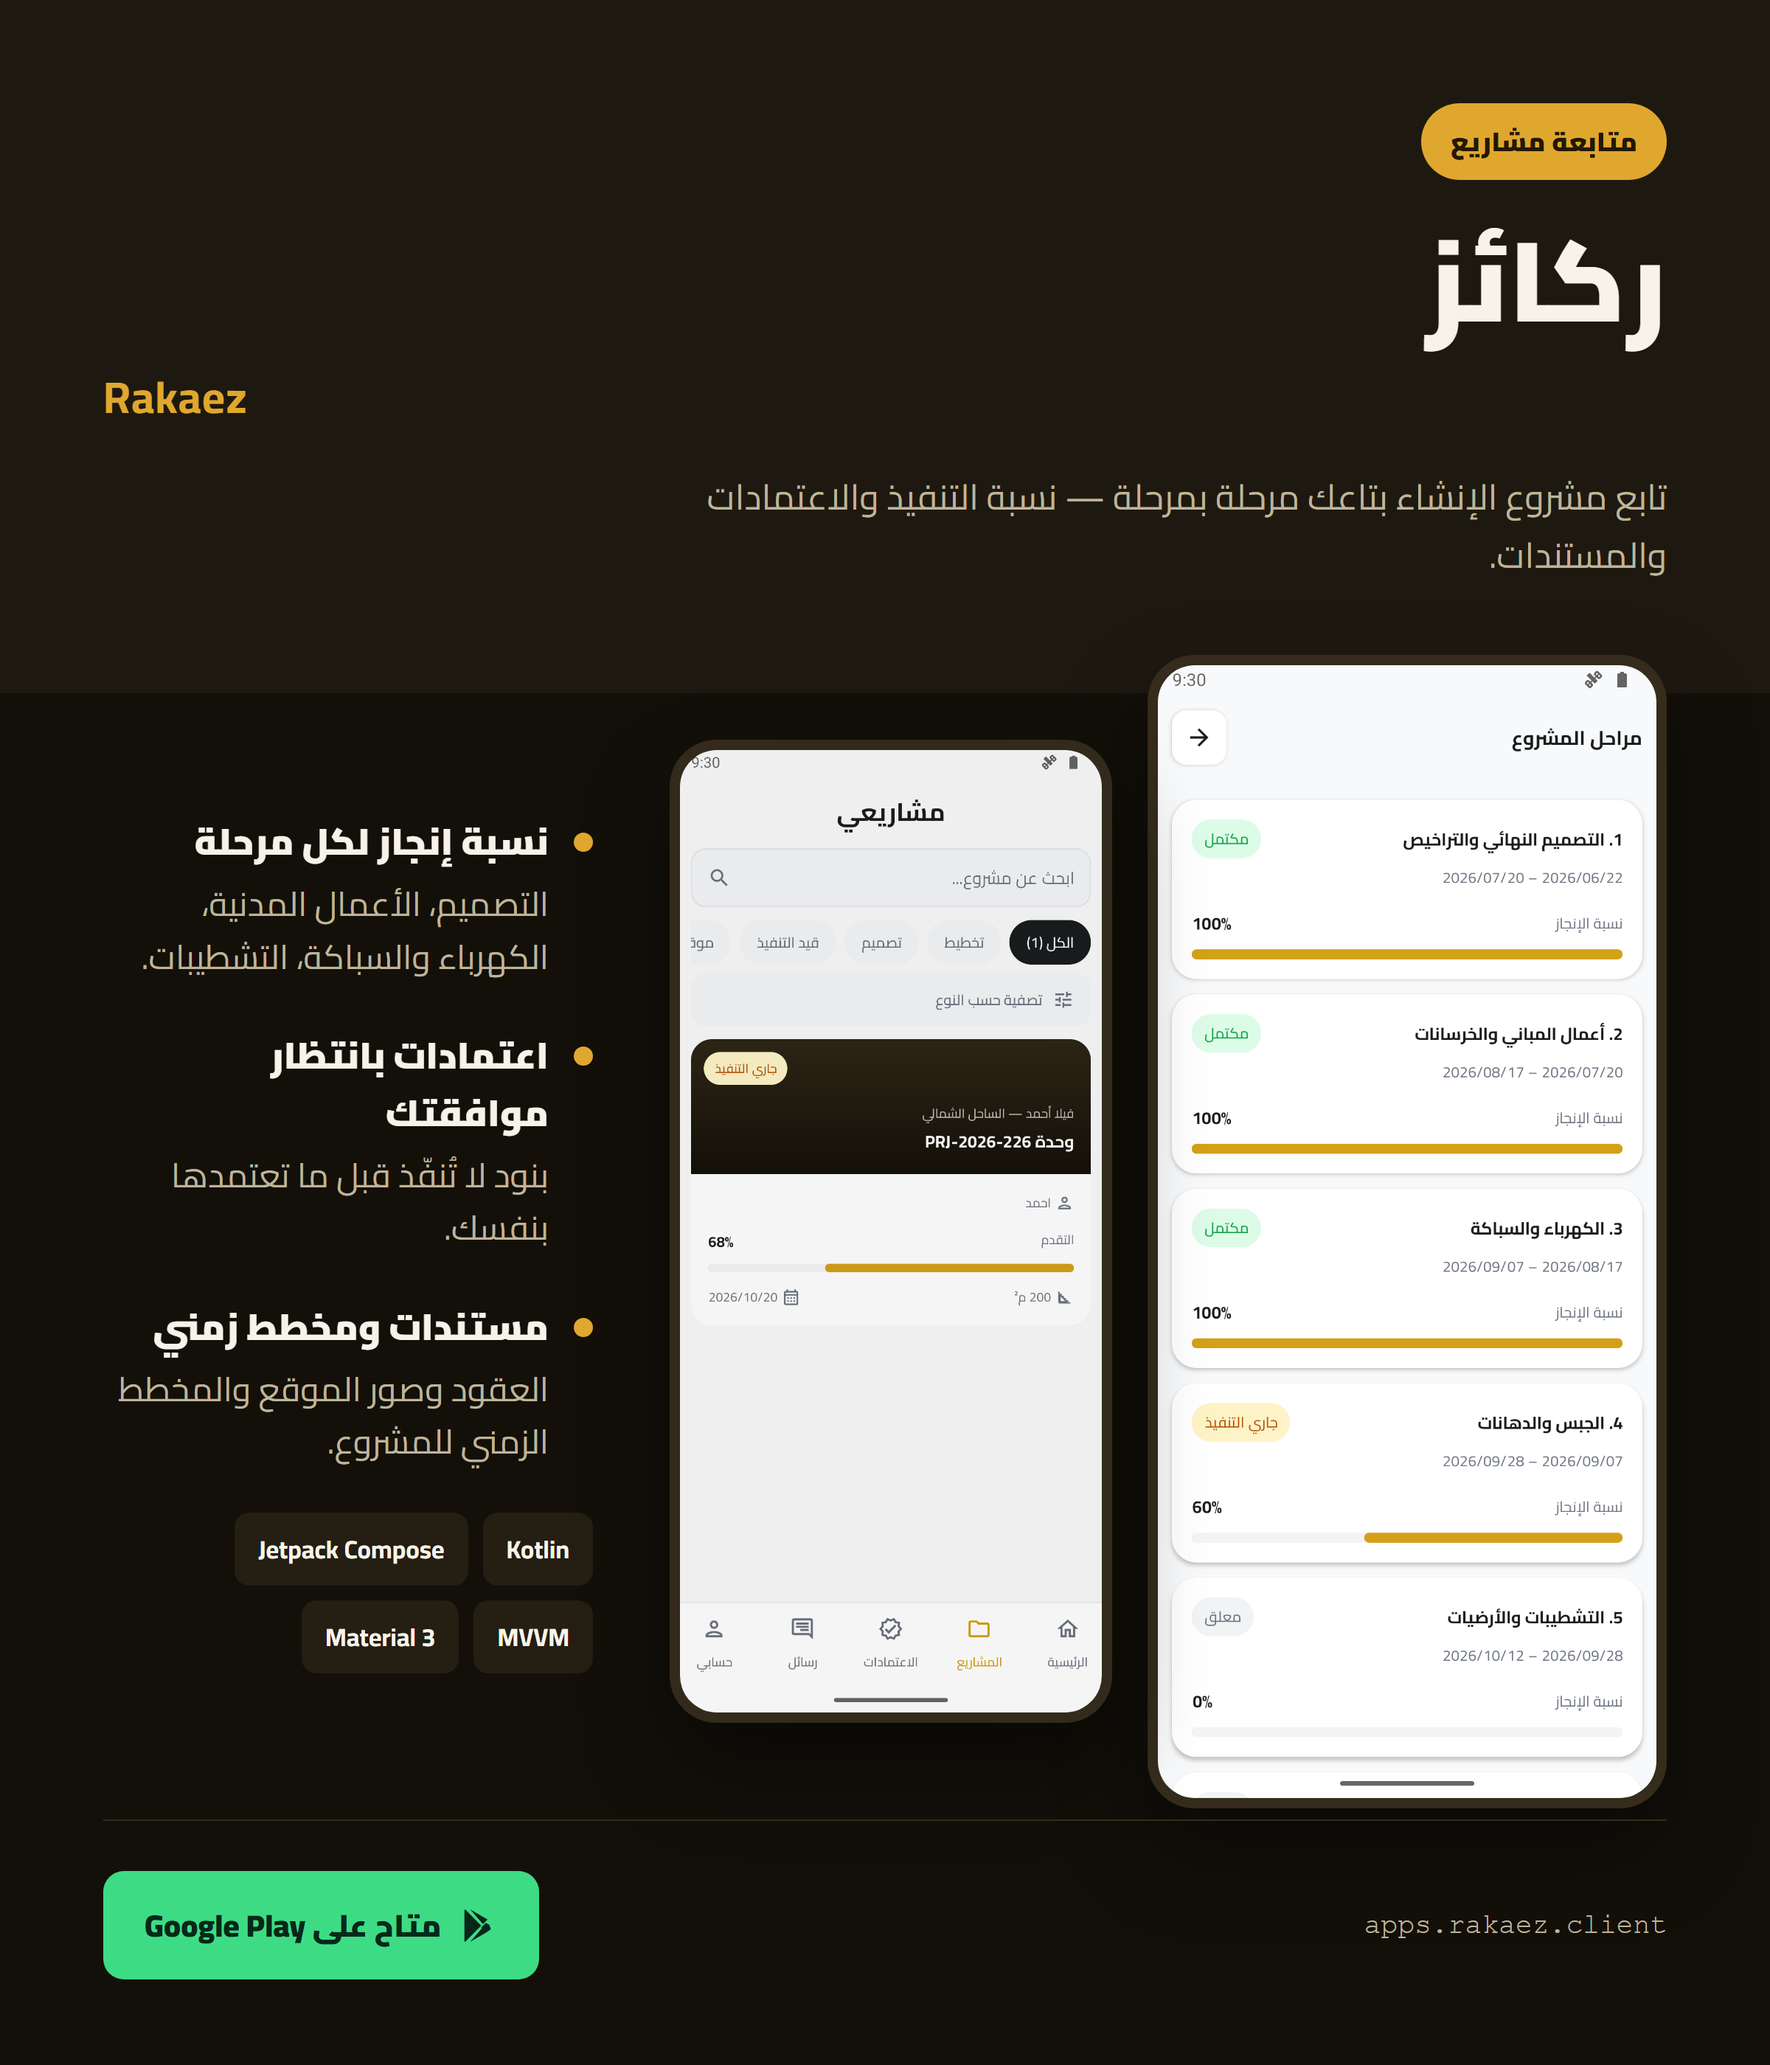
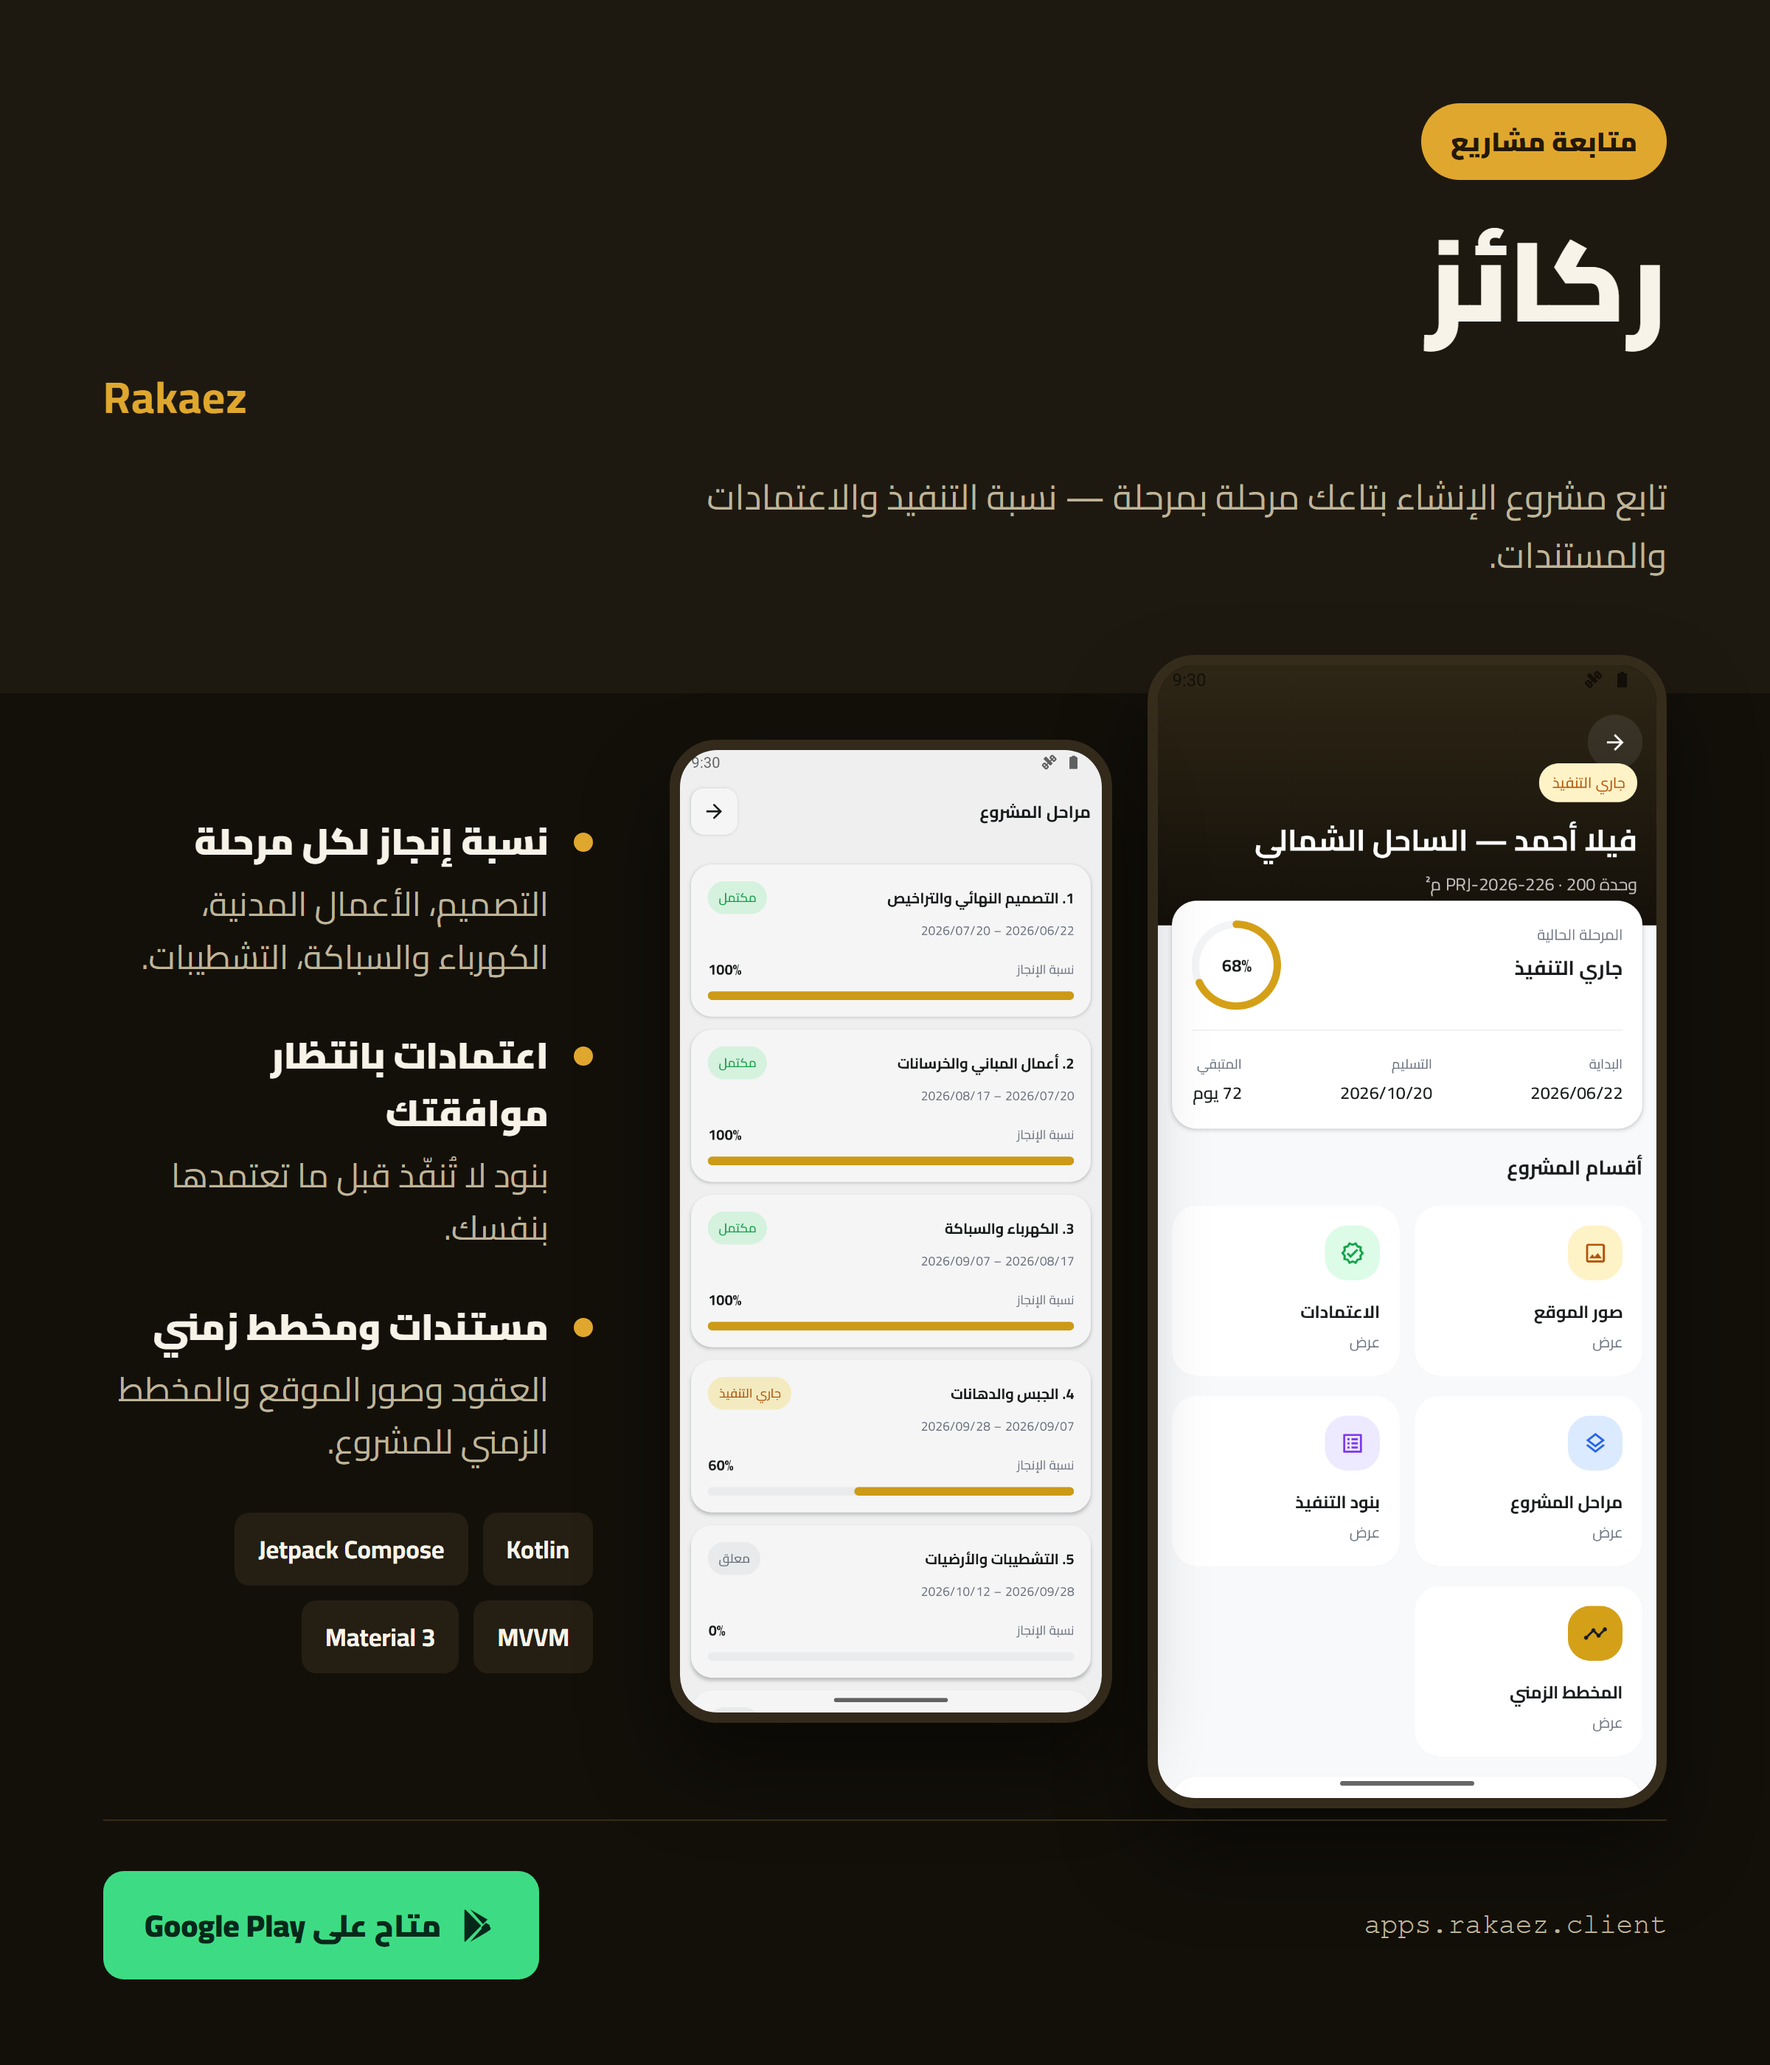
Replace Al-Rowadh and add nine more published apps
Al-Rowadh is dropped: its Play listing returns 404 under both package
spellings, so the card pointed at an app that is not published. Al Asdiqaa
takes its slot.

Eight more apps join the showcase — BNB Dafatery, Dalil, Egypt Online,
ALAMRO Captain, Farda Gomla, Marvel Cosmetics, 30 MIN and Yalla Style
Provider — each with its own poster built from real in-app screens.

Rakaez swaps to a better pair of screens: the project detail with its
progress ring, and the stage breakdown. The previous shot showed an empty
"no active project" state.

The Clinic and Wasela are deliberately left out: only their doctor and
captain packages are live on Play, while the available screens are from
the patient and customer apps, so a card would pair screens with the wrong
app. All eighteen store links were checked and resolve.

diff --git a/README.md b/README.md
@@ -212,23 +212,23 @@ const ahmed = {
 
 <div style="background: linear-gradient(135deg, #f093fb 0%, #f5576c 100%); border-radius: 20px; padding: 25px; box-shadow: 0 15px 35px rgba(240, 147, 251, 0.3); transform: perspective(1000px) rotateX(2deg); transition: all 0.3s ease;">
 
-### 📖 **Al-Rowadh Education**
-*Islamic educational app with structured learning curriculum*
+### 🛒 **Al Asdiqaa — الأصدقاء**
+*Online supermarket with branch-aware stock and home delivery*
 
-<img src="https://user-images.githubusercontent.com/74038190/219923823-bf1ce878-c6b8-4faa-be07-93e6b1006521.gif" width="100" style="margin: 10px 0;">
+<a href="assets/posters/asdiqaa.png"><img src="assets/posters/asdiqaa.png" width="100%" style="margin: 10px 0; border-radius: 12px;"></a>
 
 **🔧 Technology Stack:**  
-`Kotlin` `XML` `Room Database` `MVP` `Material Design 3`
+`Java` `Android SDK` `XML Layouts` `REST API`
 
 **✨ Key Features:**  
-📱 Beautiful, intuitive interface  
-🔖 Smart bookmarking system  
-📊 Learning progress dashboard  
-🌙 Dark mode support  
+🏬 Pick your nearest branch  
+🧺 Categories with real product photos  
+🎟 Cart, discount codes and delivery fees  
+🚚 Order tracking to the door  
 
 <br>
 
-[![Play Store](https://img.shields.io/badge/Download_on-Play_Store-3DDC84?style=for-the-badge&logo=google-play&logoColor=white)](https://play.google.com/store/apps/details?id=apps.eduction_alrowadh)
+[![Play Store](https://img.shields.io/badge/Download_on-Play_Store-3DDC84?style=for-the-badge&logo=google-play&logoColor=white)](https://play.google.com/store/apps/details?id=apps.elasdiqa)
 
 </div>
 
@@ -439,6 +439,214 @@ const ahmed = {
 <br>
 
 [![Play Store](https://img.shields.io/badge/Download_on-Play_Store-3DDC84?style=for-the-badge&logo=google-play&logoColor=white)](https://play.google.com/store/apps/details?id=apps.rakaez.client)
+
+</div>
+
+</td>
+</tr>
+<tr>
+<td width="50%" align="center" style="padding: 20px;">
+
+<div style="background: #0E1A2E; border-radius: 20px; padding: 25px;">
+
+### 📒 **BNB Dafatery — دفاتري**
+*Ledger app for merchants: customers, transactions and instalments*
+
+<a href="assets/posters/bnb.png"><img src="assets/posters/bnb.png" width="100%" style="margin: 10px 0; border-radius: 12px;"></a>
+
+**🔧 Technology Stack:**  
+`Kotlin` `Jetpack Compose` `MVVM` `REST API`
+
+**✨ Key Features:**  
+💰 Live balance with every credit and debit  
+📆 Instalment schedule and arrears per customer  
+🧾 Shareable statement per customer  
+📊 Totals for paid, due and outstanding  
+
+<br>
+
+[![Play Store](https://img.shields.io/badge/Download_on-Play_Store-3DDC84?style=for-the-badge&logo=google-play&logoColor=white)](https://play.google.com/store/apps/details?id=apps.bnb)
+
+</div>
+
+</td>
+<td width="50%" align="center" style="padding: 20px;">
+
+<div style="background: #2A1108; border-radius: 20px; padding: 25px;">
+
+### 🧭 **Dalil — دليل**
+*Local services directory: restaurants, clinics, shops and workshops*
+
+<a href="assets/posters/dalil.png"><img src="assets/posters/dalil.png" width="100%" style="margin: 10px 0; border-radius: 12px;"></a>
+
+**🔧 Technology Stack:**  
+`Java` `Android SDK` `XML Layouts` `REST API`
+
+**✨ Key Features:**  
+🗂 Categories covering the whole city  
+📍 City and district filtering  
+☎ Phone, WhatsApp and location per listing  
+🎉 Current offers from each provider  
+
+<br>
+
+[![Play Store](https://img.shields.io/badge/Download_on-Play_Store-3DDC84?style=for-the-badge&logo=google-play&logoColor=white)](https://play.google.com/store/apps/details?id=apps.dalil)
+
+</div>
+
+</td>
+</tr>
+<tr>
+<td width="50%" align="center" style="padding: 20px;">
+
+<div style="background: #2A0B1B; border-radius: 20px; padding: 25px;">
+
+### 📰 **Egypt Online**
+*Classifieds and services — property, cars, electronics and more*
+
+<a href="assets/posters/egyptonline.png"><img src="assets/posters/egyptonline.png" width="100%" style="margin: 10px 0; border-radius: 12px;"></a>
+
+**🔧 Technology Stack:**  
+`Java` `Android SDK` `XML Layouts` `Google Maps`
+
+**✨ Key Features:**  
+🏷 Property, cars, devices, fashion and pets  
+📸 Full listing pages with photos and distance  
+🗺 Map location and direct contact  
+👤 Personal or business accounts  
+
+<br>
+
+[![Play Store](https://img.shields.io/badge/Download_on-Play_Store-3DDC84?style=for-the-badge&logo=google-play&logoColor=white)](https://play.google.com/store/apps/details?id=apps.egyptonline)
+
+</div>
+
+</td>
+<td width="50%" align="center" style="padding: 20px;">
+
+<div style="background: #231107; border-radius: 20px; padding: 25px;">
+
+### 🛵 **ALAMRO Captain — العمرو كابتن**
+*Courier app: active orders, settlement and wallet*
+
+<a href="assets/posters/elamr.png"><img src="assets/posters/elamr.png" width="100%" style="margin: 10px 0; border-radius: 12px;"></a>
+
+**🔧 Technology Stack:**  
+`Kotlin` `Jetpack Compose` `MVVM` `REST API`
+
+**✨ Key Features:**  
+📦 Active orders with status changes  
+💵 Financial settlement and commission  
+👛 Courier wallet and collection barcode  
+🧾 Per-trip earnings history  
+
+<br>
+
+[![Play Store](https://img.shields.io/badge/Download_on-Play_Store-3DDC84?style=for-the-badge&logo=google-play&logoColor=white)](https://play.google.com/store/apps/details?id=apps.projectegy.elamr_captain)
+
+</div>
+
+</td>
+</tr>
+<tr>
+<td width="50%" align="center" style="padding: 20px;">
+
+<div style="background: #2B1208; border-radius: 20px; padding: 25px;">
+
+### 👟 **Farda Gomla — فردة جملة**
+*Wholesale footwear at factory prices*
+
+<a href="assets/posters/farda.png"><img src="assets/posters/farda.png" width="100%" style="margin: 10px 0; border-radius: 12px;"></a>
+
+**🔧 Technology Stack:**  
+`Kotlin` `Jetpack Compose` `MVVM` `REST API`
+
+**✨ Key Features:**  
+👞 Women's, men's and kids' catalogues  
+📐 Sizes and colours per model  
+💵 Clear per-piece and per-carton pricing  
+🚚 Order tracking to delivery  
+
+<br>
+
+[![Play Store](https://img.shields.io/badge/Download_on-Play_Store-3DDC84?style=for-the-badge&logo=google-play&logoColor=white)](https://play.google.com/store/apps/details?id=apps.farda)
+
+</div>
+
+</td>
+<td width="50%" align="center" style="padding: 20px;">
+
+<div style="background: #1E0F2B; border-radius: 20px; padding: 25px;">
+
+### 💄 **Marvel Cosmetics — مارفل**
+*Cosmetics and personal care store with original brands*
+
+<a href="assets/posters/marvel.png"><img src="assets/posters/marvel.png" width="100%" style="margin: 10px 0; border-radius: 12px;"></a>
+
+**🔧 Technology Stack:**  
+`Java` `Android SDK` `XML Layouts` `REST API`
+
+**✨ Key Features:**  
+💇 Hair care, skin care, make-up and fragrance  
+🧴 Product pages with size, description and price  
+🎁 Bundles and discounted sets  
+🛒 Cart, favourites and order history  
+
+<br>
+
+[![Play Store](https://img.shields.io/badge/Download_on-Play_Store-3DDC84?style=for-the-badge&logo=google-play&logoColor=white)](https://play.google.com/store/apps/details?id=apps.marvel)
+
+</div>
+
+</td>
+</tr>
+<tr>
+<td width="50%" align="center" style="padding: 20px;">
+
+<div style="background: #16200A; border-radius: 20px; padding: 25px;">
+
+### 📱 **30 MIN — 30 دقيقة**
+*Phone accessories and repairs, promised in thirty minutes*
+
+<a href="assets/posters/min30.png"><img src="assets/posters/min30.png" width="100%" style="margin: 10px 0; border-radius: 12px;"></a>
+
+**🔧 Technology Stack:**  
+`Kotlin` `Jetpack Compose` `MVVM` `REST API`
+
+**✨ Key Features:**  
+🔌 Cases, chargers, audio and power banks  
+📋 Full specs with before/after pricing  
+🧰 Repair service booking  
+💳 Card, wallet or cash on delivery  
+
+<br>
+
+[![Play Store](https://img.shields.io/badge/Download_on-Play_Store-3DDC84?style=for-the-badge&logo=google-play&logoColor=white)](https://play.google.com/store/apps/details?id=apps.shasha_bagha)
+
+</div>
+
+</td>
+<td width="50%" align="center" style="padding: 20px;">
+
+<div style="background: #231E0F; border-radius: 20px; padding: 25px;">
+
+### ✂ **Yalla Style Provider — يلا ستايل**
+*Barbershop provider app: bookings, services and earnings*
+
+<a href="assets/posters/yallastyle.png"><img src="assets/posters/yallastyle.png" width="100%" style="margin: 10px 0; border-radius: 12px;"></a>
+
+**🔧 Technology Stack:**  
+`Kotlin` `Jetpack Compose` `MVVM` `REST API`
+
+**✨ Key Features:**  
+📅 Daily schedule with confirm / reject  
+💈 Service catalogue with per-service pricing  
+🏪 Shop profile and working hours  
+👛 Earnings wallet  
+
+<br>
+
+[![Play Store](https://img.shields.io/badge/Download_on-Play_Store-3DDC84?style=for-the-badge&logo=google-play&logoColor=white)](https://play.google.com/store/apps/details?id=apps.yallastyle_provider)
 
 </div>
 
